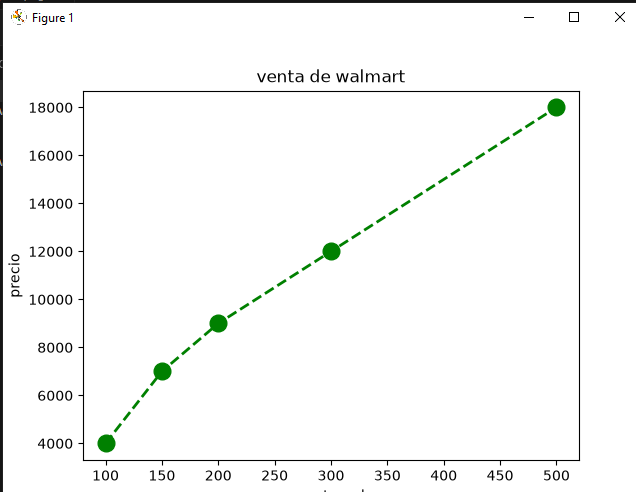
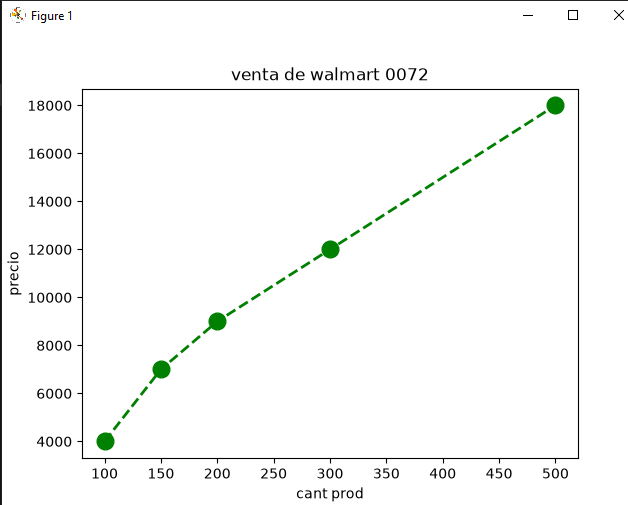
Add files via upload

diff --git a/leeme.md b/leeme.md
@@ -5,4 +5,4 @@
 ![alt text](image-1.png)
 
 ## grafica con titulo, etiqueta en xlabel, ylabel 
-![alt text](image-2.png)
+![S](image-2.png)
